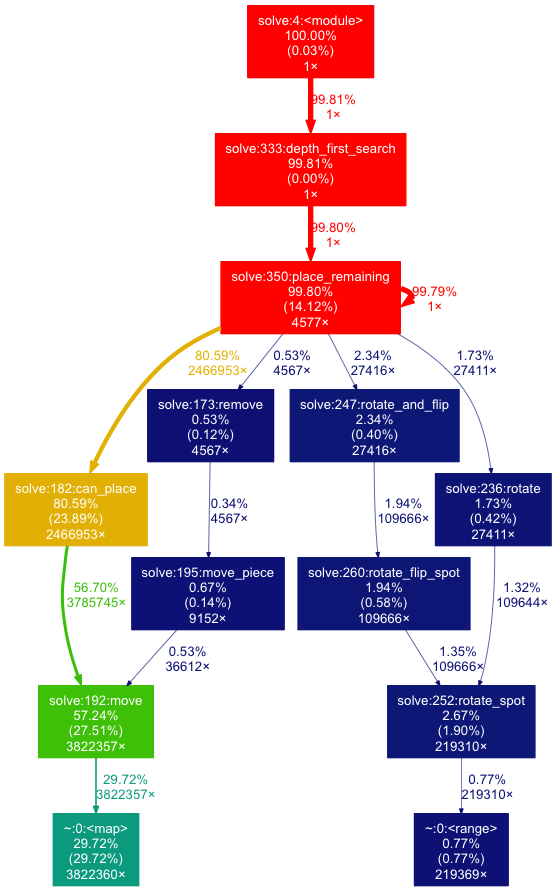
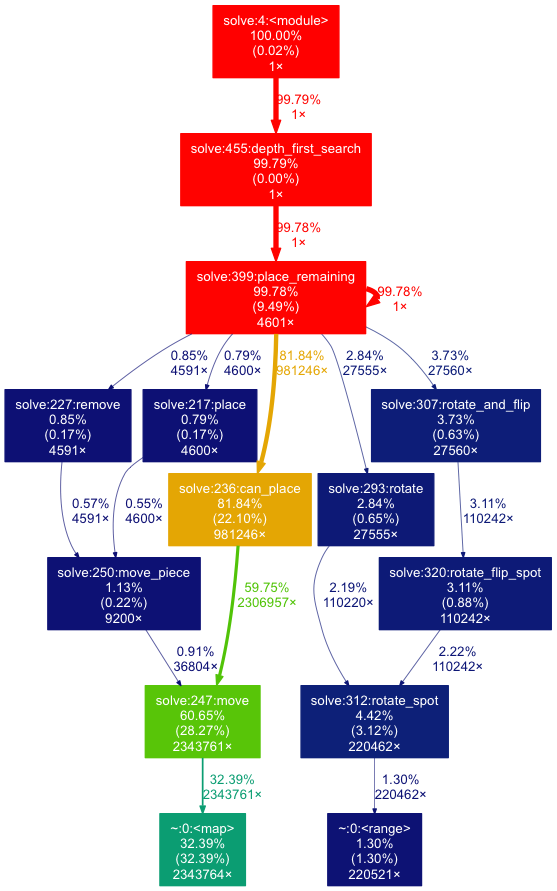
testing out ood checks, doesn't help

diff --git a/solve.py b/solve.py
@@ -3,7 +3,7 @@
 
 from pprint import pprint
 from pprint import pformat
-from copy import deepcopy
+import copy
 import operator
 
 
@@ -11,23 +11,42 @@ import operator
 #
 # all pieces must start at 000, even if this means they have negative z values
 # then only empty spaces in the board will be valid starting places
+# -- this ended up reqiring a copy, but that doesn't seem to expensive
+# -- doesn't even show up in the profiler
+#
+# memoize move or maybe even move_piece
+# -- doesn't seem to help...
 #
 # make can_place faster
 #  - vectorize pieces and locs so adding them is faster
 #  - somehow do the set operations more quickly.
 #
-# integrate flip and rotate
-#
-# make flip also use precomputed positions in a hash table (and same for the f-r combination)
-#
 # use out-of-bounds checks instead of just in-board-spaces checks
-#   use oob checks in a spot-by-spot basis instead of piece by piece
+#  - this actually made things slower
+#
+# use oob checks in a spot-by-spot basis instead of piece by piece
 #
 # prune by checking for too-small sections of the open spaces left?
 # that might dramatically remove some branches
+#
+# put all the single-spot-on-a-layer pieces at the beginning of the list
+# prune if we get into a condition where there are single-spots left after they're used
+#
 
 
-#TODO something is going wrong with moving pieces
+
+# Memoization
+# http://stackoverflow.com/questions/1988804/what-is-memoization-and-how-can-i-use-it-in-python
+class Memoize:
+    def __init__(self, f):
+        self.f = f
+        self.memo = {}
+    def __call__(self, *args):
+        targs = [args[1]].append(args[0]) # [a b c] [d] -> [d a b c]
+        if not targs in self.memo:
+            self.memo[targs] = self.f(*args)
+        return self.memo[targs]
+
 
 
 ITERATION = 0
@@ -133,7 +152,7 @@ ALL_PIECES = [
 class Board:
 
     def __init__(self):
-        self.empty_spaces = deepcopy(ALL_SPACES)
+        self.empty_spaces = copy.deepcopy(ALL_SPACES)
         self.pieces = [] #list of (xyz locations, pieces)
 
 
@@ -141,6 +160,43 @@ class Board:
     def __repr__(self):
         moved_pieces = [move_piece(piece[1], piece[0]) for piece in self.pieces]
         return pformat(moved_pieces) + self.format_grid(moved_pieces)
+
+    #  3 layers
+    #  (0,0) (1,0) (2,0) (3,0) (4,0)
+    #     (0,1) (1,1) (2,1) (3,1)
+    #  ----- (1,2) (2,2) (3,2)
+    #     ----- (1,3) (2,3)
+    #  ----- ----- (2,4)
+    # these are s little irregular, so it's not worth abstracting
+    def in_bounds(self, spot):
+
+        z = spot[2]
+        if z < 0 or 2 < z:
+            return False
+
+        y = spot[1]
+        if y < 0 or 4 < y:
+            return False
+
+        x = spot[0]
+        if y == 4:
+            if x != 2:
+                return False
+        elif y == 3:
+            if x < 1 or 2 < x:
+                return False
+        elif y == 2:
+            if x < 1 or 3 < x:
+                return False
+        elif y == 1:
+            if x < 0 or 3 < x:
+                return False
+        elif y == 0:
+            if x < 0 or 4 < x:
+                return False
+
+        return True
+
 
     def format_grid(self, moved_pieces):
         # ~ is the 10th piece
@@ -178,12 +234,13 @@ class Board:
 
     # can a piece be placed on a board?
     def can_place(self, piece, loc):
-        #print((piece, loc))
         for spot in piece:
             moved_spot = move(spot, loc)
             if not moved_spot in self.empty_spaces:
                 return False
         return True
+
+
 
 
 
@@ -193,6 +250,8 @@ def move(spot, loc):
 def move_piece(piece, loc):
     return [move(spot, loc) for spot in piece]
 
+### amazing
+#move_piece = Memoize(move_piece)
 
 
 
@@ -278,7 +337,7 @@ def rotate_flip_spot(spot, rotations):
 
 
 # this precomputes all the simple spot rotations/flips around 000
-# so a runtime we can just do lookops instead of calculations
+# so a runtime we can just do lookups instead of calculations
 def create_transformations():
 
     # how a point rotates around 00
@@ -318,10 +377,6 @@ def create_transformations():
                 noflip[point3D] = next_point3D
                 flip[point3D] = flip_next_point3D
 
-                #pprint({"point": point3D,
-                #        "next": next_point3D,
-                #        "flip": flip_next_point3D})
-
     return noflip, flip
 
 ROTATION_DICT, FLIP_DICT = create_transformations()
@@ -350,12 +405,16 @@ def place_remaining(board, remaining_pieces):
     piece = remaining_pieces[0]
     remaining_pieces = remaining_pieces[1:]
 
+    # copy so we can modify the board recursivly while still iterating over this
+    # each piece (even when transformed) contains 000,
+    # so we can only place them as locations which are empty
+    available_spaces = copy.copy(board.empty_spaces)
+
     #print(("trying piece: ", piece))
 
     # rotation and flipping give all possible orientations
     for n in [0,1,2,3,4,5]:      # all 6 possible rotations
         for f in [True, False]:  # whether to flip
-
 
             if f: rotated = rotate_and_flip(piece, n)
             else: rotated = rotate(piece, n)
@@ -365,10 +424,7 @@ def place_remaining(board, remaining_pieces):
             if ITERATION % 100000 == 0:
                 print(("iteration", ITERATION))
 
-
-            for location in ALL_SPACES:
-                            #TODO does this need to be another copy?
-
+            for location in available_spaces:
                 ITERATION += 1
 
                 if board.can_place(rotated, location):
@@ -402,8 +458,6 @@ def depth_first_search():
     return place_remaining(board, pieces)
 
 
-
-
 if __name__ == "__main__":
     print(depth_first_search())
     print(("ITERATIONS", ITERATION))
@@ -414,7 +468,6 @@ if __name__ == "__main__":
 
 
 import unittest
-
 
 class TestTransformations(unittest.TestCase):
 
